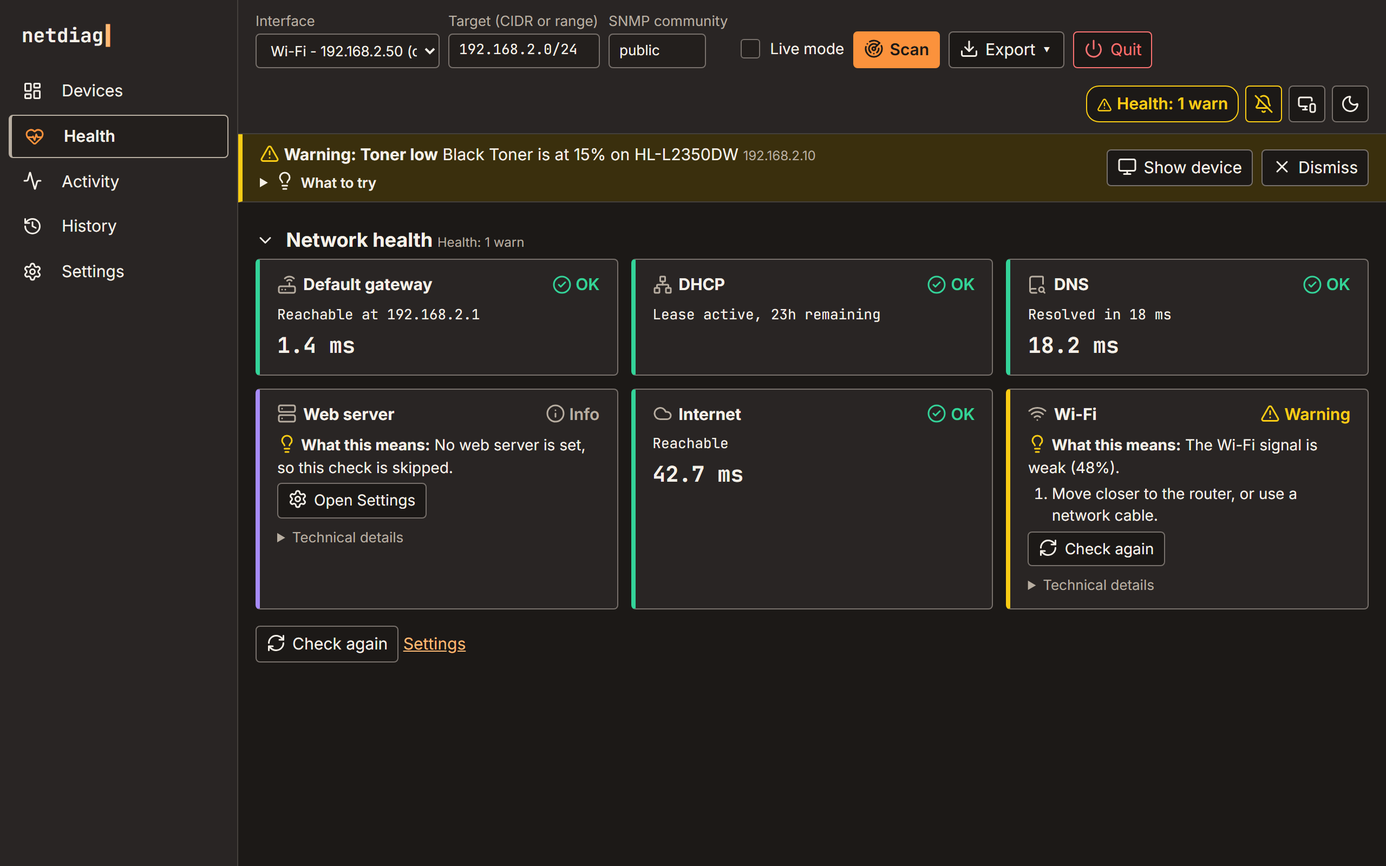
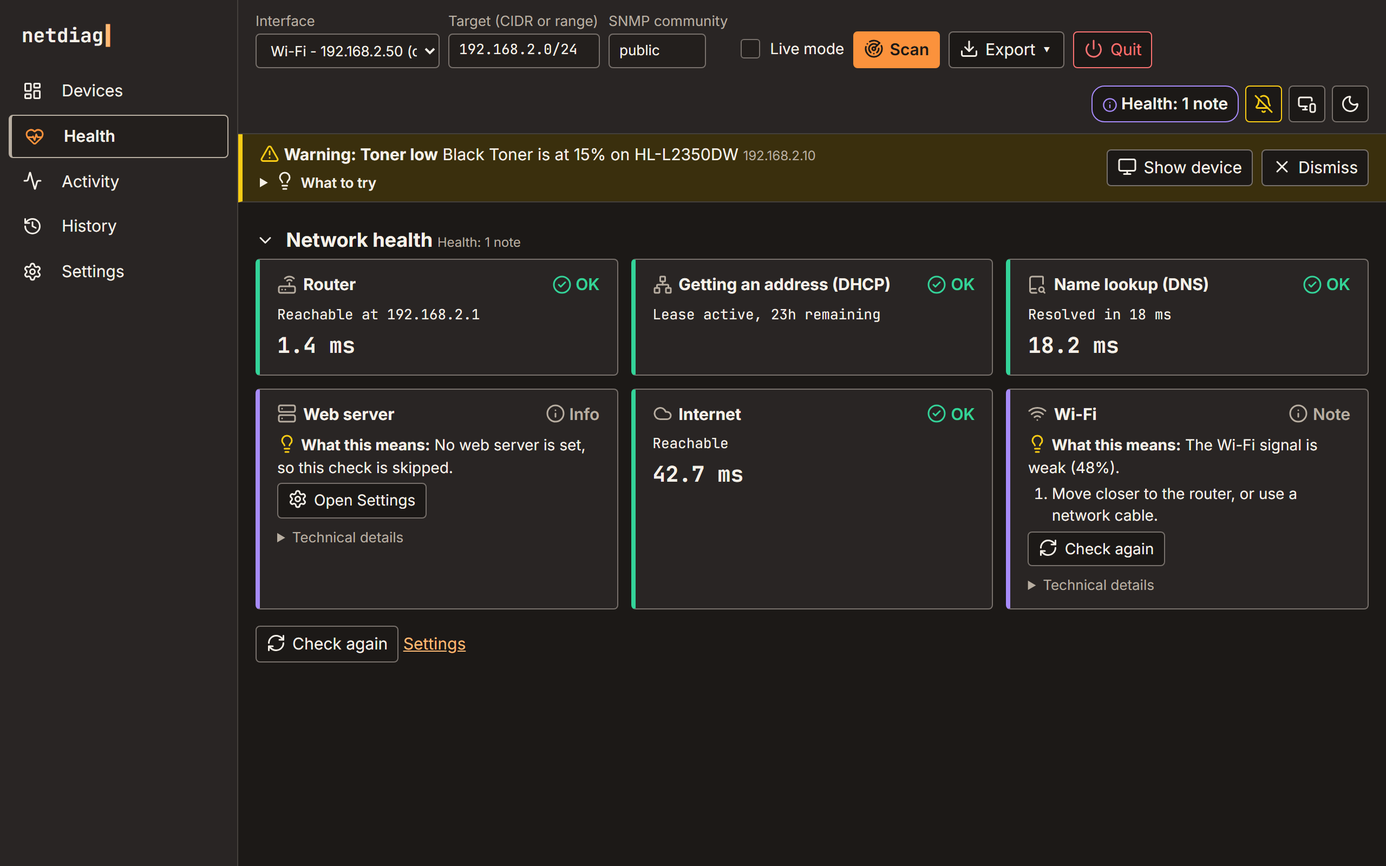
Rebase fixes: the advice audit on top of the words audit
- Our decisions are v0.6-D56 and D57 (v0.6 already had D50-D55); every
  reference this follow-up added is renumbered.
- The healthFailed and ipConflict steps say "In netdiag, press ..."; the
  screen lint ignores case, and the chat ledger tests expect the new steps.
- Chat alert fields keep v0.6-D52's "MAC address" ("MAC addresses" for a
  conflict's MACs); a fixed conflict on the Problems right now card is
  named by its device, not by the MACs the ledger keeps.
- Storm guard banners keep v0.6-D54's titles with the short message
  "netdiag paused its checks."
- The page keeps #health-run, healthMark, actionOff and the sessionOff
  locks with the card status lines, Checking..., Use this address and the
  focus fixes; specs and fixtures use the plain check names and Urgent.
- Screenshots regenerated and reviewed: Devices (the NOTE item), the
  printer drawer and Settings > Team chat in v0.6's words.

diff --git a/internal/problems/current_test.go b/internal/problems/current_test.go
@@ -309,7 +309,7 @@ func TestCurrentPrinterAndConflicts(t *testing.T) {
 
 // TestCurrentSeveralAddresses: one device on several addresses (an extender
 // or mesh point) is a note under its own title, as the drawer's Note says
-// it, whatever its MAC history; it leaves everything fine (v0.6-D51).
+// it, whatever its MAC history; it leaves everything fine (v0.6-D57).
 func TestCurrentSeveralAddresses(t *testing.T) {
 	ext := model.Host{IP: "10.0.0.30", Alive: true, Online: true, MAC: "02:00:5E:00:00:30", Conflicts: []string{"c-m"},
 		MACHistory: []model.MACObservation{{MAC: "02:00:5E:00:00:30"}, {MAC: "02:00:5E:00:00:99"}, {MAC: "02:00:5E:00:00:30"}}}
@@ -524,6 +524,14 @@ func TestViewSharedMAC(t *testing.T) {
 	})
 	if len(v.Fixed) != 1 || v.Fixed[0].Device.IP != a.IP {
 		t.Errorf("fixed: %+v", v.Fixed)
+	}
+
+	// A fixed conflict is named by its device: the MACs its notice's Detail
+	// carries for team chat stay out of the card.
+	v = view(nil, []Fixed{{Key: "ipConflict|mac_flap|10.0.1.9", Title: "Network conflict", Detail: "24:6F:28:AA:BB:CC, 3C:52:82:11:22:33",
+		IP: "10.0.1.9", Network: net, FixedAt: "2026-10-17T10:22:00Z"}})
+	if len(v.Fixed) != 1 || v.Fixed[0].Detail != "" || v.Fixed[0].Device == nil || v.Fixed[0].Device.IP != "10.0.1.9" {
+		t.Errorf("fixed conflict: %+v", v.Fixed)
 	}
 }
 

diff --git a/internal/problems/current.go b/internal/problems/current.go
@@ -287,7 +287,7 @@ func Current(r model.ScanResult, set model.Settings) []Problem {
 			p := Problem{Key: notify.ConflictKey(c), Kind: model.TriggerIPConflict, Severity: cardSeverity(notify.ConflictSeverity(c)),
 				Title: notify.ConflictTitle(c), Detail: strings.Join(c.IPs, ", "), Advice: c.Advice}
 			// One device on several addresses keeps its own title (a note,
-			// v0.6-D51); the others are a conflict only when the swap was seen.
+			// v0.6-D57); the others are a conflict only when the swap was seen.
 			if p.Title == notify.TitleConflict && !advice.SwapSeen(c, x) {
 				p.Title = TitlePossible
 			}

diff --git a/internal/advice/advice.go b/internal/advice/advice.go
@@ -305,7 +305,7 @@ func health(c model.HealthCheck, reason string, x Ctx) *model.Advice {
 		return adv("This computer isn't using Wi-Fi right now, for example because it uses a network cable.", nil)
 	case "wifi|" + model.ReasonHiddenLocation:
 		// Open Location settings comes before Check again here, in the
-		// order the step names them (v0.6-D50).
+		// order the step names them (v0.6-D56).
 		var acts []model.AdviceAction
 		if x.GOOS == "windows" {
 			acts = append(acts, model.AdviceAction{Kind: model.ActionOSSettings, Label: LabelOpenLocation, Target: model.OSPageLocation})

diff --git a/internal/notify/notify.go b/internal/notify/notify.go
@@ -695,7 +695,7 @@ func (e *Engine) ObserveConflicts(cur []model.Conflict, cycle bool) []model.Noti
 
 // Conflict notice titles. One device on several addresses is often normal
 // (an extender or mesh point), so it is not called a conflict: the window
-// says Note (v0.6-D51).
+// says Note (v0.6-D57).
 const (
 	TitleConflict         = "Network conflict"
 	TitleSeveralAddresses = "One device uses several addresses"

diff --git a/internal/notify/severity.go b/internal/notify/severity.go
@@ -60,7 +60,7 @@ func severityFor(trigger string, ctx sevCtx) string {
 		case ctx.kind == model.ConflictMACMultiIP:
 			// One device on several addresses is often normal (an
 			// extender or mesh point): a note, as the window says it
-			// (v0.6-D51).
+			// (v0.6-D57).
 			return sevInfo
 		}
 		return sevWarn

diff --git a/roadmap/v0.6.md b/roadmap/v0.6.md
@@ -407,7 +407,7 @@ One function, `notify.severityFor(trigger, ctx)`, sets the local banner severity
 | deviceOffline (off by default) | info | warn (`:132`) |
 | supplyLow | warning | warn |
 | printerAlert | the printer's own: `critical`/`error` → critical, else warning | same (`:178-181`) |
-| ipConflict | warning; critical only for `mac_flap` with an observed swap; info for `mac_multi_ip` (one device on several addresses, v0.6-D51) | warn/critical (`:216-219`) |
+| ipConflict | warning; critical only for `mac_flap` with an observed swap; info for `mac_multi_ip` (one device on several addresses, v0.6-D57) | warn/critical (`:216-219`) |
 | healthFailed | critical for `gateway`; warning for dhcp, dns, webserver, wifi (internet never fails) | critical for all (`:251`) |
 | newDevice | info | info |
 | netdiagLink (local only) | warning | new |
@@ -420,7 +420,7 @@ Critical reaches bubbles members who chose "mentions only" (`bubbles/pkg/notifyr
 **Package `internal/advice`** (pure, imports only `model`):
 
 ```go
-type Ctx struct{ GOOS, Gateway string; Hosts map[string]model.Host; Network string } // Network: the report's network id, set by advice.Report (v0.6-D50)
+type Ctx struct{ GOOS, Gateway string; Hosts map[string]model.Host; Network string } // Network: the report's network id, set by advice.Report (v0.6-D56)
 func Health(c model.HealthCheck, x Ctx) *model.Advice
 func Notice(n model.Notice, h *model.Host, x Ctx) *model.Advice
 func Conflict(c model.Conflict, x Ctx) *model.Advice
@@ -453,7 +453,7 @@ func PrinterNoStatus(h model.Host) *model.Advice
 - `osSettings` uses a new `POST /api/os/open {"page":"location"}` (session token). It is Windows-only: ShellExecute of `ms-settings:privacy-location` from a fixed map; any other value gets 400, and macOS gets 501.
 - app.js renders link targets from server data only, so there is still no `http(s)://` literal in app.js (`internal/server/static_test.go:38-54`).
 
-**Phase-1 catalogue (exact wording, `Meaning` / steps / actions; the rows below are as shipped after v0.6-D50 and D51):**
+**Phase-1 catalogue (exact wording, `Meaning` / steps / actions; the rows below are as shipped after v0.6-D56 and D57):**
 
 | Case | What this means | What to try | Buttons |
 |---|---|---|---|
@@ -462,18 +462,18 @@ func PrinterNoStatus(h model.Host) *model.Advice
 | gateway ok `tcp_only` with `data.pingError` (ping could not run on this computer) | netdiag couldn't send its test message from this computer, but your router's web page answers, so it is working. | (none) | **Open router page** |
 | gateway warn `slow` | Your router answers, but slowly (180 ms). | 1. This can happen when the network is busy or the Wi-Fi signal is weak. 2. If it stays slow, restart the router. | **Check again** |
 | dhcp fail `apipa` | This computer didn't get an address from the router, so it can't talk to other devices. | 1. Turn Wi-Fi off and on again, or unplug the network cable and plug it back in. 2. If that doesn't help, restart the router. | **Check again** |
-| dns warn `no_internet` | Your local network works, but internet names can't be looked up. Usually this means there is no internet connection right now. | 1. If this network should have internet, restart the router or modem. 2. If this network has no internet on purpose, turn on "This network has no internet" in Settings. (Without a network id, `Ctx.Network` empty: only step 1, v0.6-D50.) | **Check again**, **Open Settings** (the switch; only with a network id) |
+| dns warn `no_internet` | Your local network works, but internet names can't be looked up. Usually this means there is no internet connection right now. | 1. If this network should have internet, restart the router or modem. 2. If this network has no internet on purpose, turn on "This network has no internet" in Settings. (Without a network id, `Ctx.Network` empty: only step 1, v0.6-D56.) | **Check again**, **Open Settings** (the switch; only with a network id) |
 | dns info `no_internet`, D15 switch on for this network | This network is set up without internet, so internet names can't be looked up. That is expected. | 1. If this network has internet now, turn off "This network has no internet" in Settings. | **Open Settings** (the switch) |
 | dns warn `local_mismatch` | Your name server works, but this computer asks somewhere else first, for example an old VPN setting. | 1. Disconnect any VPN and check again. 2. Ask whoever looks after this computer to check its settings. | **Check again** |
 | dns warn `nxdomain` | The name server answers, but doesn't know the name in "Internet check URL". | 1. Check "Internet check URL" in Settings. | **Open Settings** |
 | dns fail `no_reply` | No name server answers, so this computer can't look up names. | 1. Restart the router. 2. If you use a VPN, disconnect it and check again. | **Check again** |
 | dns fail `no_server` | This computer has no name server set. | 1. Ask whoever looks after this computer to set the network adapter to get its settings automatically. | (none) |
 | webserver info `not_set` | No web server is set, so this check is skipped. | (none) | **Open Settings** |
-| webserver fail `status` (also a redirect loop, or another redirect than an expected 3xx, v0.6-D51) | The web server isn't answering as expected (HTTP 503). | 1. Check that the server is switched on. 2. Ask whoever looks after it. | **Check again**, **Open Settings** |
+| webserver fail `status` (also a redirect loop, or another redirect than an expected 3xx, v0.6-D57) | The web server isn't answering as expected (HTTP 503). | 1. Check that the server is switched on. 2. Ask whoever looks after it. | **Check again**, **Open Settings** |
 | webserver fail `content` | The web server answers, but its page doesn't show the text you set. | (as `status`) | **Check again**, **Open Settings** |
 | webserver fail `request` | The web server isn't answering. | (as `status`) | **Check again**, **Open Settings** |
-| webserver fail `redirect` (to another server; the expected answer is not a redirect) | The web server sends visitors to another address, so the page you set isn't the one that answers. | 1. It sends you to https://portal.example.com/login. If that is the right page, set it as "Web server URL" in Settings. ("It sends you to another address." when `data.location` has a user name, a query or a fragment; the Web server card names the address and says "press Use this address below", v0.6-D50, D51.) | **Check again**, **Open Settings** (the card adds **Use this address**) |
-| webserver fail `tls`, certificate offered (`data.certSHA256`) | The web server's certificate isn't trusted. | 1. If this is your own server on this network, open Health in netdiag and press Trust this certificate on the Web server card. 2. Otherwise, ask whoever looks after it. (The card says "If this is your own server, press Trust this certificate below."; where it does not show the button it leaves step 1 out and step 2 reads "Ask whoever looks after it.", v0.6-D50.) | (none: the card has **Trust this certificate**; Settings can only forget a certificate) |
+| webserver fail `redirect` (to another server; the expected answer is not a redirect) | The web server sends visitors to another address, so the page you set isn't the one that answers. | 1. It sends you to https://portal.example.com/login. If that is the right page, set it as "Web server URL" in Settings. ("It sends you to another address." when `data.location` has a user name, a query or a fragment; the Web server card names the address and says "press Use this address below", v0.6-D56, D57.) | **Check again**, **Open Settings** (the card adds **Use this address**) |
+| webserver fail `tls`, certificate offered (`data.certSHA256`) | The web server's certificate isn't trusted. | 1. If this is your own server on this network, open Health in netdiag and press Trust this certificate on the Web server card. 2. Otherwise, ask whoever looks after it. (The card says "If this is your own server, press Trust this certificate below."; where it does not show the button it leaves step 1 out and step 2 reads "Ask whoever looks after it.", v0.6-D56.) | (none: the card has **Trust this certificate**; Settings can only forget a certificate) |
 | webserver fail `tls`, none offered (another address of the server, another certificate) | The web server's certificate isn't trusted. | 1. The server sends you to https://intranet.local:8443/, which uses a different certificate. If that is the right page, set it as "Web server URL" in Settings. (`data.finalURL`; without a usable one: "The server sends you to another address that uses a different certificate. If that is the right page, ...".) 2. Otherwise, ask whoever looks after it. | **Open Settings** (the card adds **Use this address**) |
 | internet info `portal` | This network wants you to sign in first, on a Wi-Fi login page. | 1. Open any website in your browser to see the login page. | (none; the v0.7 troubleshooter adds a button) |
 | internet info `no_response` | netdiag couldn't reach the internet. Devices on the local network still work. | 1. If this network should have internet, restart the router or modem. | **Check again** |
@@ -498,7 +498,7 @@ The `Technical` field carries the raw detail string, such as "192.168.1.1 did no
 
 **Wording lint (test):**
 - Advice text never contains "event", "venue" or "event staff", or "LAN" as a word. The check runs after the product term "Wake-on-LAN" is removed, because v0.7's wake advice uses it, and it uses the same regex as TestRunbookWording.
-- `Meaning` never contains ARP, DHCP, DNS, SNMP, MAC, ICMP, ping, IP address or subnet (ping since v0.6-D50). (DNS is avoided by saying "name server"; "address" is fine.) These are allowed in `Technical`.
+- `Meaning` never contains ARP, DHCP, DNS, SNMP, MAC, ICMP, ping, IP address or subnet (ping since v0.6-D56). (DNS is avoided by saying "name server"; "address" is fine.) These are allowed in `Technical`.
 - The catalogue test checks that every check × reason, every trigger and every conflict kind has a non-empty Meaning and at most 3 steps.
 
 ### 4.9 F10 Built-in bubbles client, alert router and outbox (foundation)
@@ -711,7 +711,7 @@ The v0.5.7 Web server link fix (`:147`) is kept and becomes the **Open Settings*
   - "Device A: Hewlett Packard · 3C:52:82:11:22:33 · also uses 192.168.1.51"
   - "Device B: Espressif · 24:6F:28:AA:BB:CC · seen at 10:02, 10:07, 10:12"
 - The cards are built from `Host.MACHistory` (`internal/model/model.go:81-82`, 8 observations), the conflict MACs, OUI vendors and other hosts using the same MAC.
-- The heading says **Conflict** only when `MACHistory` shows at least two alternations, meaning a swap was actually seen. Otherwise it says **Possible conflict**, except `mac_multi_ip`, which says ℹ **Note** (v0.6-D50), as its Problems right now item, row badge (**NOTE**) and banner do (v0.6-D51).
+- The heading says **Conflict** only when `MACHistory` shows at least two alternations, meaning a swap was actually seen. Otherwise it says **Possible conflict**, except `mac_multi_ip`, which says ℹ **Note** (v0.6-D56), as its Problems right now item, row badge (**NOTE**) and banner do (v0.6-D57).
 - Then the advice steps, then **Ignore this MAC** (confirmation from v0.5.7).
 - No active ARP: `SendARP` returns the cached entry, and flushing needs admin (C21 verdict).
 
@@ -976,7 +976,7 @@ This keeps "netdiag UI" (`prompts_test.go:54-56`).
 |---|---|---|
 | `triage_network` (`prompts.go:41-56`) | Step 1 calls get_status and uses the watching scanId; start_scan answers alreadyWatching. Steps 4-6 replace the get_device loop with list_problems plus advice. The answer shape follows the footer | `"get_status","alreadyWatching","list_problems","advice"` |
 | `diagnose_printer` (`:58-71`) | After get_device, call list_problems and lead with that printer's advice.meaning and steps. Keep the v0.5.7 threshold from get_settings | `"list_problems","advice"` |
-| `explain_conflict` (`:73-86`) | Use the conflict's advice and macHistory. Say "Conflict" only if a swap was seen (two alternations in macHistory), "Note" for `mac_multi_ip` (v0.6-D51), otherwise "Possible conflict". Describe the two devices side by side (maker, other addresses, times) | `"macHistory","Possible conflict","advice"` |
+| `explain_conflict` (`:73-86`) | Use the conflict's advice and macHistory. Say "Conflict" only if a swap was seen (two alternations in macHistory), "Note" for `mac_multi_ip` (v0.6-D57), otherwise "Possible conflict". Describe the two devices side by side (maker, other addresses, times) | `"macHistory","Possible conflict","advice"` |
 | `device_missing` (`:88-101`) | Step 0 calls list_problems; if the device is listed, start from its advice. Point to device_offline for the plain-words version | `"list_problems","device_offline"` |
 | `what_changed` (`:103-124`) | no change | (none) |
 
@@ -1057,7 +1057,7 @@ Sizes: S is up to 2 dev-days, M is 3-5, L is 6-10. Each milestone merges with `g
 - [x] `Data["reason"]` on every non-ok health result (`internal/health/health.go`). (The reasons are `model.Reason*`, read with `model.HealthReason`. Beyond 4.8's list: `timeout` and `error` on any check, gateway `no_gateway` and `ping_error`, dns `slow`, webserver `invalid`, `slow` and `expired`, internet `status` and `invalid`, wifi `error`. The router that answers only on its web ports stays `ok`, as v0.5.8 made it, and still carries `tcp_only`. Windows' Location block is `health.ErrLocationOff`, not its text. `TestReasonOnEveryNonOKResult`.)
 - [x] The `internal/advice` catalogue (4.8), attached to health, notices and conflicts. (v0.6-D26. Health in `startHealth` and `Service.RunHealth` through `advice.Report`; conflicts in `analyzeOp`; notices in `addNotices`, where an ipConflict or healthFailed notice takes its conflict's or check's advice. Notices gain `Code` and `Detail` for the printer alert code and the alert's or supply's description. A printer without status carries `Host.Advice`. `advice.DevicePageURL` and `RouterURL` are the target validators v0.7 #4 reuses; `ActionLabels()` lists the labels.)
 - [x] `POST /api/os/open` (Windows ShellExecute whitelist; 501 on macOS). (v0.6-D28. The list is `location` → `ms-settings:privacy-location`, in `internal/remote`, which MCP may not import; `OpenOSPage(` joins the MCP forbidden calls. The session token comes with M4's method-based guard, which covers this route; its 401 test belongs to M4. `TestOSOpenWhitelist`, `TestOSPagesFixed`.)
-- [x] Health card advice, Technical details, banner **What to try** and **Show device**, the drawer `.cpair` conflict view, the printer-without-status block. (The v0.5.7 Web server link stays for a report saved without advice. The device cards take each MAC's maker from `Conflict.vendors`, which `analyzeOp` fills from the vendor lookup, so a device that uses no other address still has one. Only a `mac_flap` can read "Conflict"; `mac_multi_ip` reads "Note" (v0.6-D50, D51); every other kind is a "Possible conflict".)
+- [x] Health card advice, Technical details, banner **What to try** and **Show device**, the drawer `.cpair` conflict view, the printer-without-status block. (The v0.5.7 Web server link stays for a report saved without advice. The device cards take each MAC's maker from `Conflict.vendors`, which `analyzeOp` fills from the vendor lookup, so a device that uses no other address still has one. Only a `mac_flap` can read "Conflict"; `mac_multi_ip` reads "Note" (v0.6-D56, D57); every other kind is a "Possible conflict".)
 - [x] Wording-lint and catalogue-completeness tests. (`TestCatalogueComplete`, `TestWordingLint`, `TestActionTargets`; `TestUITestFixtureAdvice` keeps the uitest fixtures word for word with the catalogue.)
 - [x] D15 "This network has no internet" switch (approved by the product owner on 2026-10-17), for this network only. Acceptance: with the switch on, a no-internet fixture renders "Everything looks fine". (v0.6-D27: `settings.noInternetNetworks` keeps the ids (`model.NetworkID`: address prefix, router and router MAC) of the networks it is on for, and each health report names its `network`. Another network with the same addresses, or a router whose MAC netdiag cannot read, keeps the warning (`TestNoInternetSwitch`). The Health panel's line, `#health-fine`, reads "OK Everything looks fine (checked HH:MM)" when the checks are fine and nothing the page lists is a problem by 4.11's card rules (app.js `everythingFine`), and "All health checks look fine (checked HH:MM)" when the checks are fine beside such a problem. `advice.spec`: "a no-internet network with the switch on renders Everything looks fine", turning the switch on in Settings gets there for this network only, a printer alert, low supply or conflict keeps the line to the health checks, and an offline device counts only with **Any device goes offline** on.)
 - Acceptance: each of the 6 checks shows a "What this means" line in the fixture. The `mac_flap` fixture without alternations reads "Possible conflict" and with 2 alternations reads "Conflict". axe and align pass in both themes. (Automated in `advice.spec.mjs` (fixture `healthAll`, `flapHosts`/`flapConflict` with 1 and 2 alternations, axe on the health cards and the conflict drawer in both themes) and `align.spec.mjs` "alignment with advice" at both sizes and themes.)
@@ -1181,7 +1181,7 @@ Sizes: S is up to 2 dev-days, M is 3-5, L is 6-10. Each milestone merges with `g
 - [x] A card's Check again shows **Checking...** and its own status line; one label **Check again** (no more **Recheck**) and Check again first on every card; Location gets its step and Check again. (advice.spec `a card's Check again ...`, `Check again has one label ...`; `TestCatalogueComplete` order rule.)
 - [x] Redirect and other-certificate steps name the address (`data.location`, `data.finalURL`), **Use this address**; Settings fields by their quoted labels; no "ping" in a Meaning (lint); the Web server card's own Trust step, with the button among the actions. (`TestHealthAdvice`, `TestWebTrustedCertOtherPort`; health-web.spec, advice.spec `Use this address`.)
 - [x] Printer reason under Technical details; README, docs/mcp.md, HOW-TO-OPEN, field checklist (the real macOS Wi-Fi text) and runbooks updated; drawer, health and settings screenshots regenerated and reviewed.
-- [x] Review of these fixes (v0.6-D51): one device on several addresses is a note everywhere (severity info, Problems item "One device uses several addresses", **NOTE** row badge, the banner's title, `explain_conflict` "Note"); conflict chat alerts name every MAC (**MACs**); the no-swap step 2 "netdiag will tell you"; redirect reason only for another server (a loop or another redirect than an expected one is `status`); no user name, query or fragment in a step's address; the Web server card names **Use this address** (its own icon) and drops an orphaned "Otherwise, "; banners also scroll away on screens under 701 px tall; the later plans say **Check again**, and this plan's catalogue, `Ctx` and heading rule are as shipped. (`TestCurrentSeveralAddresses`, `TestCurrentGolden`, `TestSeverityMap`, `TestConflictLifecycle`, `TestConflictMessage`, `TestAlertContentLimits`, `TestHealthAdvice`, `TestWebFollowsSameHostRedirects`, `TestPrompts`; advice.spec `mac_multi_ip ... reads "Note"`, `... promises only to tell you`, `Use this address`, `a loop ... offers no address`, `banners scroll away on a short screen`; health-web.spec trust test; problems-now.spec; flow.spec.)
+- [x] Review of these fixes (v0.6-D57): one device on several addresses is a note everywhere (severity info, Problems item "One device uses several addresses", **NOTE** row badge, the banner's title, `explain_conflict` "Note"); conflict chat alerts name every MAC (**MACs**); the no-swap step 2 "netdiag will tell you"; redirect reason only for another server (a loop or another redirect than an expected one is `status`); no user name, query or fragment in a step's address; the Web server card names **Use this address** (its own icon) and drops an orphaned "Otherwise, "; banners also scroll away on screens under 701 px tall; the later plans say **Check again**, and this plan's catalogue, `Ctx` and heading rule are as shipped. (`TestCurrentSeveralAddresses`, `TestCurrentGolden`, `TestSeverityMap`, `TestConflictLifecycle`, `TestConflictMessage`, `TestAlertContentLimits`, `TestHealthAdvice`, `TestWebFollowsSameHostRedirects`, `TestPrompts`; advice.spec `mac_multi_ip ... reads "Note"`, `... promises only to tell you`, `Use this address`, `a loop ... offers no address`, `banners scroll away on a short screen`; health-web.spec trust test; problems-now.spec; flow.spec.)
 - Acceptance: each audit item is fixed and covered by a test or a reviewed screenshot.
 
 **M14: Release v0.6.0** (S; M13)
@@ -1230,7 +1230,7 @@ Run `go test -race` on notify, scan, service, server, chat, bubbles, problems, i
 | `chat.spec.mjs` (new) | wizard steps 1-8 with mocked transitions; "It doesn't" stop screen; no-channel **Check again**; test-alert error hints; status tool icon and title per state; Disconnect confirmation; Esc closes the wizard and returns focus; Settings Save does not reset other sections when the chat switch changes |
 | `reattach.spec.mjs` (new) | reload with `running` → live view restored, no beep (AudioContext spy), banners rebuilt silently; **Restart watching** dialog (Keep watching is the default focus); heartbeat failure → stopped banner; new instanceId → restarted banner; 401 → buttons-off banner |
 | `flow.spec.mjs` | no unmatched or external requests with the new routes; every non-GET carries the header |
-| `drawer.spec.mjs` | `.cpair` conflict view; "Possible conflict" vs "Conflict" (and "Note" for `mac_multi_ip`, advice.spec, v0.6-D50); Esc and focus; the long-task budget with advice blocks (254 hosts, 100 updates, nothing over 200 ms) |
+| `drawer.spec.mjs` | `.cpair` conflict view; "Possible conflict" vs "Conflict" (and "Note" for `mac_multi_ip`, advice.spec, v0.6-D56); Esc and focus; the long-task budget with advice blocks (254 hosts, 100 updates, nothing over 200 ms) |
 | `settings-repaired.spec.mjs` (new, M1) | the one-time notice with a shape plus words, in both themes; it survives a save made before Settings opens (Mute alerts); a reset field with no control in Settings is named without "Check them below"; Save sends every non-default section back unchanged and never sends `repaired` |
 | `mcp-settings.spec.mjs` | the existing section still passes with the Team chat fieldset present; muting keeps a non-default chat block (M1) |
 | `activity.spec.mjs` | Fixed lines under the Notice chip; still 8 chips |

diff --git a/roadmap/README.md b/roadmap/README.md
@@ -1391,7 +1391,7 @@ Plan: [§10][v06-10].
 | v0.6-D53 | What the Watching, problems and banners audit changed (the v0.6 follow-up) | Decided (implementation, 2026-10-17) | **Nothing looks watched once nothing is.** While netdiag has stopped, was restarted (the page is out of date) or was quit from this page, the live pill, **Stop live**, **Restart watching** and **Cancel** are hidden, **Scan** and **Quit** are off (so an out-of-date page can never quit the netdiag that replaced it), the progress line says "Not watching: netdiag has stopped" (or "…: this page is out of date") whatever the scan was doing, and the **Problems right now** card says circle-help **Not watching** (`#pn-gone`) instead of "Everything looks fine", with "This is from the last check at …" only when a check happened; Quit also clears the live state, and moves keyboard focus to its "netdiag has stopped. You can close this tab." message (`#quitted`), since Quit itself is off then. The stopped banner says "**netdiag has stopped.** Double-click netdiag to start it again, then press **Scan** with **Live mode** ticked to watch again.", since a new netdiag starts idle. **Restart watching** in the top bar reads the interfaces again while the hold is `network_changed`, as the banner's does, and the card's **Stopped** note has its own **Restart watching** (`#pn-restart`). The restart dialog names the range being watched ("netdiag is watching 192.168.2.0/24 (since 10 Oct 09:12)"; the page remembers its own scan's range when netdiag does not say), and with Live mode unticked it is **Stop watching?** with **Stop watching and scan**, and the line under it says "This stops watching and runs one scan of <range>, without live mode.". **A stale page** shows only its banner: a 401 sets no error of its own (`sessionMessage` is now "Double-click netdiag to open a fresh page."), the top-bar actions and every **Restart watching** (top bar, banner and card) carry `aria-disabled` and look off (they still reach netdiag, which refuses them), and Settings shows only the explanation and **Close** (no form) whenever the settings are not loaded. When they load while Settings is open that way (a fresh page brought the token), the form is built from them then; Save never sends the blank stand-in, which would replace every setting (`draftLoaded`). **One set of words:** banners lead with Problem, Warning or Note, as the card does (v0.6-D54 later made both Urgent, Warning, Note). **Health checks by short name:** a card item's `detail` for a health check is its short name (`problems.CheckNames`: Gateway, DHCP, DNS, Internet, Wi-Fi, Web server, the health strip's words; `TestCheckNamesMatchHealthStrip`), not its label (v0.6-D54 later gave every check one plain name, `model.HealthLabel`, such as Router). **Fixed items say which one:** the ledger's fixed entry keeps the open problem's `detail` (`problems.Fixed.Detail`), `FixedItem` gains `detail` (a health check's short name from its key, also for a ledger saved before), and the card shows it. **A Check again alone:** with no scan to speak for but an on-demand health run, `GET /api/problems` and `list_problems` answer `source` `health` with the health checks' problems, never `everythingFine`; the card says circle-help **Not checked** "The health checks ran (checked 10:42), but netdiag has not looked at the devices yet. Press **Scan** to check them too.", and `explain_problems` step 4 answers "Not checked: the health checks ran, but netdiag has not looked at the devices yet." unless a health check is a warning or worse. The window's `get_status.note` is then `NoteHealthOnly` ("netdiag has run only the health checks: it has not looked at the devices on this network yet. …"), not `NoteNotWatching`, and the `list_problems` description names `source` `health` (`TestStatusHealthRunOnly`). `explain_problems` step 11 says a fixed item as the card does, "Fixed at 10:42 (was down 12 min): Health check failed · DNS", with its `detail` and an outage of a day or more in days (`TestExplainProblemsFixedItems`). **Times:** the live pill and the restart dialog give a hold's or watch's day as the card does (`pnClock`); an outage of a day or more reads "8 days 1 h" in the page and in chat resolves (`downFor`). The not-watching line says "Press **Scan** to start watching." when Live mode is ticked, "When this scan ends, tick **Live mode** and press **Scan** to start watching." while a scan without live mode runs (Live mode cannot be ticked then), else "Tick **Live mode** and press **Scan** to start watching." (`NoteNotWatching` says "start watching" too), and leaves out the time when the line above gives it. The router-quiet hold is titled "The router stopped answering". The Team chat Send select is labelled **Team chat alert level**, the name the repaired-settings notice uses, and that notice reads "Some settings were not valid and were reset to their defaults: X, Y. Check them below.", naming each field once; a reset field with no control in Settings gets a clause that says where it is, and "Check … below" then covers only the fields that are below (8.7). **Layout:** below 760 px the banners scroll with the page and the live pill has a row of its own; the stopped, restarted, session, quit and settings-repaired alerts mark their status with the triangle icon inside the text instead of a text "!". **Later:** v0.8 M6 (**Keep watching this network**) makes a relaunch start watching by itself, so it changes the stopped banner, README "If netdiag stops" and the `#pn-gone` text while that switch is on (a v0.8 M6 task) | v0.6.0; v0.8 M6 |
 | v0.6-D54 | The words the v0.6 docs and words audit found wrong (16 findings) | Decided (implementation, 2026-10-18) | **Check names**: one plain name per health check everywhere, `model.HealthLabel` (Router, Getting an address (DHCP), Name lookup (DNS), Web server, Internet, Wi-Fi), for the Health panel, the card, notices, team chat and `run_health_check` labels; a report an older netdiag saved is renamed by its id (`HealthCheck.Name`); the titles stay "Health check failed" / "Health check OK again" with the name as the detail. This replaces v0.6-D53's short names (`problems.CheckNames`, "Gateway"): the health strip keeps a word or two per check (Router, DHCP, DNS, Internet, Wi-Fi, Web server), each part of the plain name (`TestCheckNamesMatchHealthStrip`). **One action, one name**: the Health view's button is **Check again**, like the advice button; the chat wizard's channel button is **Look again**. **Severity words**: Urgent, Warning, Note, Fixed on banners and the card (the **Team chat alert level** select already said "Only urgent problems"), instead of v0.6-D53's Problem; the header chip counts failing checks and notes ("Health: 1 failing, 2 notes"), because a warning check is a note on the card. **Fixed**: "(lasted 12 min)" on the page, in chat, the CLI and the runbook, for every problem, never "was down": this replaces v0.6-D52's "was down" (an offline device or a failed check) and "after" (the rest), and keeps v0.6-D53's days from a day on ("lasted 8 days 1 h"); health notices carry the check name as `Detail`, OK notices their fault's `Detail`, and `problems.Fixed`/`FixedItem` keep it as `detail` (a health fix gets the check's plain name from its key, also in a ledger saved before). **Storm guard titles**: "This computer lost the network" (link) and "The router stopped answering" (gateway, as v0.6-D53), which closes with "The router answers again". **Team chat**: a new connection turns Send on before it has a channel, so closing at "isn't in any channel yet" and using **Choose a channel** later still sends; Change channel leaves Send as it is, and Done then gives v0.6-D52's Send-off text; both Done texts end "tick Live mode and press Scan, then leave netdiag open"; the header button shows a word ("Chat: sending off", "Chat: can't reach", "Chat: no channel", "Chat: reconnect", "Chat: stopped") except while connected and sending, and the header tools wrap below 560 px; the conflict advice steps say "open this address in netdiag" so they work in chat (the card has no conflict id field, v0.6-D52). **Locked page**: as v0.6-D53, Settings without the settings shows only its message and Close, and the Health view's Check again is disabled while `sessionOff`. **Docs**: "Tick Live mode and press Scan, then leave netdiag open"; "a firewall on this computer"; "usually no typing"; a typed address in the browser netdiag opened works (the key is shared through localStorage); the 0.5 Zebra shots are captioned as 0.5 until field check 6.1 retakes them. `tools/docscheck` `TestDocsRetiredWords` keeps the old words out of the docs and the page | v0.6 follow-up (docs and words audit) |
 | v0.6-D55 | What the review of v0.6-D54 found still wrong (15 findings) | Decided (implementation, 2026-10-18) | **Saved reports**: the store renames a saved scan's checks by id when it reads one (`HealthReport.NameChecks`, `store.readScan`), so the Health panel, `GET /api/health`, `get_health` and scan summaries never show "Gateway reachable" after an upgrade. **One mapping for a check's shape**: the header chip, the health strip and the Health panel take each check's shape from what `problems.Current` makes of it (app.js `healthMark`): a failed router check is urgent (✖), another failed check or one that could not run a warning (▲), a warning check or Wi-Fi and DHCP details this computer doesn't share a note (ⓘ). The panel's words are OK, Note (`warn`), Failed, Info and Could not run (`unavailable`); the chip counts "N failing, K could not run, M notes", so it never says "Health: OK" next to a warning on the card. **Fixed items keep the problem's title** (`Ledger.Apply` as built): "Fixed at 10:42 (lasted 12 min): Health check failed · Router"; the runbook, the README and the fixtures follow. **Check again** only ever runs the health checks: a later re-run button names its own check (v0.7: **Check my connection again**; the printer diagnosis runs again with **Why won't it print?**). **Locked page**: the Health view's and each card's Check again, Open Location settings, Trust this certificate, Ignore this MAC, Delete (History) and the remote Open button are disabled while `sessionOff`; the top-bar actions and every Restart watching keep v0.6-D53's `aria-disabled` look (a click still reaches netdiag, which refuses it). **Chat button**: its accessible name starts with the word it shows ("Chat: reconnect. Team chat: needs reconnecting"). **Chat steps**: the general `healthFailed` and `ipConflict` steps, which chat cards rebuilt from the ledger post, say "Open Health in netdiag" and "Open this address in netdiag"; the advice lint rejects a step that opens a netdiag screen without "in netdiag". **Docs**: README step 5 says a new connection and Reconnect turn Send on and only Change channel and Choose a channel leave it as it was; a page in another browser or profile, or at `localhost`, stays locked (the `storage` event reaches only the browser netdiag opens); the README and site call the urgent printer alerts urgent; the site's health card uses the check names; registry §8.7 defines `detail` for health notices and fixed items; the v0.6 plan's test texts follow v0.6-D54 | v0.6 follow-up (review of the words audit) |
-| v0.6-D56 | How the Advice and health cards audit (after M13) is fixed where the audit left a choice | Decided (implementation, 2026-10-17) | **One label, one order.** The Health view's button is **Check again**, as on the cards (v0.6-D54 renamed it from **Recheck** too); on every card Check again comes first, then Open Settings or a link, except the Wi-Fi Location advice, whose step says to open Location settings first. A card's Check again (and Open Location settings, and Trust this certificate) says "Running checks..." and "Checks updated." in a `role=status` line on that card, the button reads **Checking...** while disabled, and the panel's line under the cards speaks only for its own button. **Words for one place.** The server's steps stay true everywhere they are shown (banner, Problems right now, chat, Claude), so they name the place: "open Health in netdiag and press Trust this certificate on the Web server card" (`advice.StepTrustCert`), "In netdiag, press Show device and compare the two devices (Device A and Device B)" (`advice.StepCompareDevices`), "In netdiag, press Open Health to see what to try", and the ipConflict notice's "In netdiag, press Show device to see the two devices.". They replace v0.6-D55's "Open Health in netdiag" and "Open this address in netdiag" steps and still say "in netdiag" for team chat, where nobody can press a button (the screen lint ignores case). The page says them in its own words where it is that place: the Web server card says "press Trust this certificate below" (and drops the step when the button is not shown), and the drawer, which shows Device A and Device B, drops "In netdiag, press Show device and". **No-swap mac_flap:** Meaning "The device answering at <IP> changed.", step 2 "netdiag will mark it as a conflict" ("netdiag will tell you" since D57), and a Show device action like the swap's; MCP scan summaries leave Show device out of their brief advice (the item names the address already), which keeps the 16 KB bound. **Drawer heading:** plain words (Two devices are using / may be using the same address; One device uses several addresses; Two devices use the same name); mac_multi_ip is an info shape and **Note**; the addresses and MACs are under Technical details. **Conflict notices** say it in plain words (`notify.ConflictMessage`); the MACs stay in the conflict's detail (and, since D57, in the notice's Detail for team chat). **netdiagLink banners** say only "netdiag paused its checks." (under v0.6-D54's titles "This computer lost the network" and "The router stopped answering") or "netdiag stopped its alerts."; their Meaning adds when the checks start again. **No network id** (`advice.Ctx.Network` empty, set by `advice.Report` from the report): the dns no_internet advice leaves out the switch step and Open Settings; a page that still opens Settings at the grey switch focuses its help. **Addresses in steps:** a redirect names `data.location`, another certificate names `data.finalURL` (now set by the web check), with "If that is the right page"; Settings fields are named by their quoted labels. The page adds **Use this address** (page-side, like Trust this certificate, not an advice action kind) that opens Settings with the address in "Web server URL", saving nothing until Save. A healthFailed banner has **Open Health** (page-side). Banners are not sticky below 760 px wide (as v0.6-D53 made them) or, since D57, below 701 px tall. The printer reason is under Technical details ("Recognised by:") | follow-up to M7, M8 and M13 |
+| v0.6-D56 | How the Advice and health cards audit (after M13) is fixed where the audit left a choice | Decided (implementation, 2026-10-17) | **One label, one order.** The Health view's button is **Check again**, as on the cards (v0.6-D54 renamed it from **Recheck** too); on every card Check again comes first, then Open Settings or a link, except the Wi-Fi Location advice, whose step says to open Location settings first. A card's Check again (and Open Location settings, and Trust this certificate) says "Running checks..." and "Checks updated." in a `role=status` line on that card, the button reads **Checking...** while disabled, and the panel's line under the cards speaks only for its own button. **Words for one place.** The server's steps stay true everywhere they are shown (banner, Problems right now, chat, Claude), so they name the place: "open Health in netdiag and press Trust this certificate on the Web server card" (`advice.StepTrustCert`), "In netdiag, press Show device and compare the two devices (Device A and Device B)" (`advice.StepCompareDevices`), "In netdiag, press Open Health to see what to try", and the ipConflict notice's "In netdiag, press Show device to see the two devices". They replace v0.6-D55's "Open Health in netdiag" and "Open this address in netdiag" steps and still say "in netdiag" for team chat, where nobody can press a button (the screen lint ignores case). The page says them in its own words where it is that place: the Web server card says "press Trust this certificate below" (and drops the step when the button is not shown), and the drawer, which shows Device A and Device B, drops "In netdiag, press Show device and". **No-swap mac_flap:** Meaning "The device answering at <IP> changed.", step 2 "netdiag will mark it as a conflict" ("netdiag will tell you" since D57), and a Show device action like the swap's; MCP scan summaries leave Show device out of their brief advice (the item names the address already), which keeps the 16 KB bound. **Drawer heading:** plain words (Two devices are using / may be using the same address; One device uses several addresses; Two devices use the same name); mac_multi_ip is an info shape and **Note**; the addresses and MACs are under Technical details. **Conflict notices** say it in plain words (`notify.ConflictMessage`); the MACs stay in the conflict's detail (and, since D57, in the notice's Detail for team chat). **netdiagLink banners** say only "netdiag paused its checks." (under v0.6-D54's titles "This computer lost the network" and "The router stopped answering") or "netdiag stopped its alerts."; their Meaning adds when the checks start again. **No network id** (`advice.Ctx.Network` empty, set by `advice.Report` from the report): the dns no_internet advice leaves out the switch step and Open Settings; a page that still opens Settings at the grey switch focuses its help. **Addresses in steps:** a redirect names `data.location`, another certificate names `data.finalURL` (now set by the web check), with "If that is the right page"; Settings fields are named by their quoted labels. The page adds **Use this address** (page-side, like Trust this certificate, not an advice action kind) that opens Settings with the address in "Web server URL", saving nothing until Save. A healthFailed banner has **Open Health** (page-side). Banners are not sticky below 760 px wide (as v0.6-D53 made them) or, since D57, below 701 px tall. The printer reason is under Technical details ("Recognised by:") | follow-up to M7, M8 and M13 |
 | v0.6-D57 | Review of the D56 fixes: one word for one device on several addresses, conflict MACs in chat, and which addresses a step may name | Decided (implementation, 2026-10-17) | **One device on several addresses is a note everywhere.** The 4.7/8.2 severity of an ipConflict `mac_multi_ip` is info (was warning): the Problems right now item is a Note titled "One device uses several addresses" (`notify.TitleSeveralAddresses`, `notify.ConflictTitle`) under "Also worth knowing", so it leaves everything fine; its notice and banner have that title ("Notice:"), the message "The same device answers at <IPs>.", and reach team chat only at the Everything level; a row whose only conflicts are `mac_multi_ip` shows ℹ **NOTE** (`.badge.cnote`) instead of ▲ **CONFLICT**, as the drawer's Note box does; `explain_conflict` says "Note". Other kinds keep "Network conflict" / "Possible conflict", and the OK keeps "Network conflict cleared". **Conflict MACs in chat:** the ipConflict notice's `Detail` is the conflict's MACs, comma separated; the chat alert shows them as **MAC addresses** (one is **MAC address**, v0.6-D52's field name) in place of the device's own MAC address, so a mac_flap alert names both devices. A fixed conflict on the Problems right now card is named by its device, not by the MACs the ledger keeps. **No-swap mac_flap step 2** is "If it happens again, netdiag will tell you.", true under the banner's and chat's "Network conflict" title (the engine has no MAC history to tell a swap). **Addresses in steps:** the web check gives reason `redirect` only for a redirect to another server when the expected answer is not a redirect; a loop (more than 5 same-server redirects) and another redirect than an expected 3xx are `status` (the step names no address; `data.location` stays). A step never names an address with a user name (its password shows as xxxxx), a query or a fragment (a sign-in page's one-time ticket would reach chat): it says "It sends you to another address." The Web server card says the address step in its own words, naming the address and **Use this address** (`i-globe`, not the settings gear); when it leaves out the trust step, the next step drops "Otherwise, ". **Banners** also stop sticking on screens under 701 px tall (a phone on its side, a small laptop window): three banners with What to try open measured 60-127% of an 844x390 screen and 60-65% of 1024x600 and 1366x650 | follow-up to D56; 4.7, 4.8, 4.9 and 4.12 of the v0.6 plan say so |
 
 ### 12.3 v0.7 "Device toolkit"
